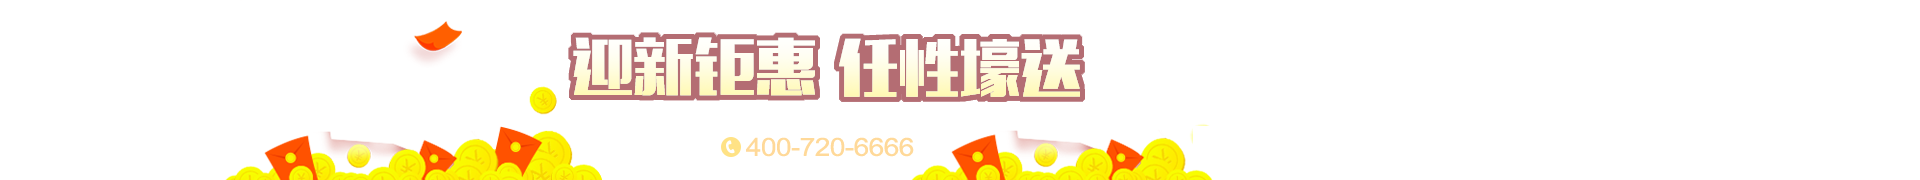
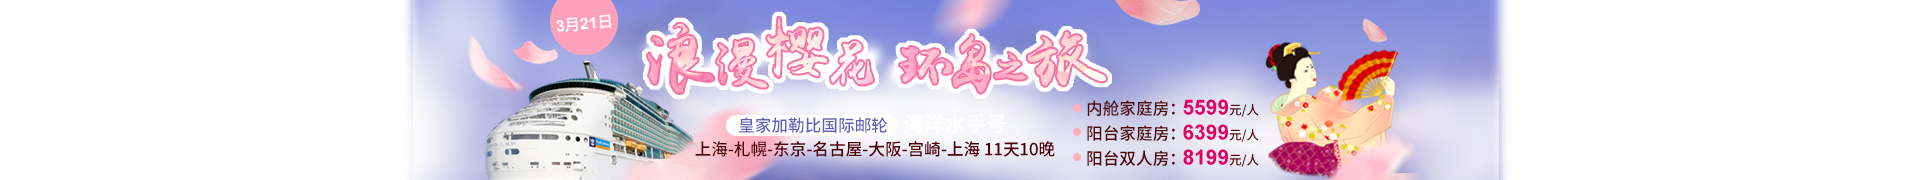
广告位修改

diff --git a/static/css/store.css b/static/css/store.css
@@ -2380,10 +2380,10 @@ iframe {
 
 /* 双十一广告位 start*/
 .adsCorner{
-    width:120px;
-    height:100px;
+    width:150px;
+    height:150px;
     position:fixed;
-    left:-120px;
+    left:-150px;
     bottom:150px;
     cursor:pointer;
     background:url(../../images/adscorner.png) no-repeat;
@@ -2402,27 +2402,24 @@ iframe {
     width:100%;
     height:180px;
     position:absolute;
-    /* background-color:#140b0d; */
-    /* background-color:#480103; */
-    background:#dd0009 ;
+    background:#7982d5 ;
     opacity:0.8;
-    filter: alpha(opacity=80); 
+    filter: alpha(opacity=80);
     z-index:-2;
     overflow:hidden;
 }
 .adsCon{
-    /* width:980px; */
+    /*width:980px;*/
     width:1920px;
     height:180px;
     margin:0 auto;
-    /*background:url(../../images/adsimgbg.png) center center no-repeat rgba(20,11,13,0.95);*/
-    /* background-image: url(../../images/adsimgbg12.png); */
+    /*background:url(../../images/adsimgbg.png) center center no-repeat;*/
     background:url(../../images/centerbg.png) center center no-repeat;
-    background-repeat: no-repeat;
     background-position: center center;
     position:absolute;
     top:0;
     left:50%;
+    /*margin-left:-490px;*/
     margin-left:-960px;
     z-index:-1;
 }
@@ -2436,13 +2433,15 @@ iframe {
     width: 210px;
     height: 124px;
     float:left;
-    /* background:url(../../images/ads11-new.png) no-repeat; */
+    background:url(../../images/ads11-new.png) no-repeat;
     margin:32px 0 0 28px;
+    display:none;
 }
 .adswrapper .QRcode{
     margin:20px 15px 0 0;
     float:right;
     overflow:hidden;
+    display:none;
 }
 .adswrapper .QRcode p{
     float:left;

diff --git a/static/css/store_v3/store.css b/static/css/store_v3/store.css
@@ -2855,10 +2855,10 @@ a.progressCancel {
 
 /* 双十一广告位 start*/
 .adsCorner{
-    width:120px;
-    height:100px;
+    width:150px;
+    height:150px;
     position:fixed;
-    left:-120px;
+    left:-150px;
     bottom:150px;
     cursor:pointer;
     background:url(../../images/adscorner.png) no-repeat;
@@ -2877,27 +2877,24 @@ a.progressCancel {
     width:100%;
     height:180px;
     position:absolute;
-    /* background-color:#140b0d; */
-    /* background-color:#480103; */
-    background:#dd0009 ;
+    background:#7982d5 ;
     opacity:0.8;
     filter: alpha(opacity=80); 
     z-index:-2;
     overflow:hidden;
 }
 .adsCon{
-    /* width:980px; */
+     /*width:980px;*/
     width:1920px;
     height:180px;
     margin:0 auto;
-    /*background:url(../../images/adsimgbg.png) center center no-repeat rgba(20,11,13,0.95);*/
-    /* background-image: url(../../images/adsimgbg12.png); */
+    /*background:url(../../images/adsimgbg.png) center center no-repeat;*/
     background:url(../../images/centerbg.png) center center no-repeat;
-    background-repeat: no-repeat;
     background-position: center center;
     position:absolute;
     top:0;
     left:50%;
+    /*margin-left:-490px;*/
     margin-left:-960px;
     z-index:-1;
 }
@@ -2911,13 +2908,15 @@ a.progressCancel {
     width: 210px;
     height: 124px;
     float:left;
-    /* background:url(../../images/ads11-new.png) no-repeat; */
+    background:url(../../images/ads11-new.png) no-repeat;
     margin:32px 0 0 28px;
+    display:none;
 }
 .adswrapper .QRcode{
     margin:20px 15px 0 0;
     float:right;
     overflow:hidden;
+    display:none;
 }
 .adswrapper .QRcode p{
     float:left;

diff --git a/采购商/国内首页-新.html b/采购商/国内首页-新.html
@@ -1159,7 +1159,7 @@ $(function(){
                     });
                 })
                 $('.adsCorner').click(function(){
-                    $('.adsCorner').stop().animate({'left':"-120px"},200,function(){
+                    $('.adsCorner').stop().animate({'left':"-150px"},200,function(){
                         $('.adsDetail').stop().animate({'left':"0"},450);
                     });
                 })

diff --git a/采购商/国际首页-新.html b/采购商/国际首页-新.html
@@ -1089,7 +1089,7 @@ $(function(){
                     });
                 })
                 $('.adsCorner').click(function(){
-                    $('.adsCorner').stop().animate({'left':"-120px"},200,function(){
+                    $('.adsCorner').stop().animate({'left':"-150px"},200,function(){
                         $('.adsDetail').stop().animate({'left':"0"},450);
                     });
                 })
